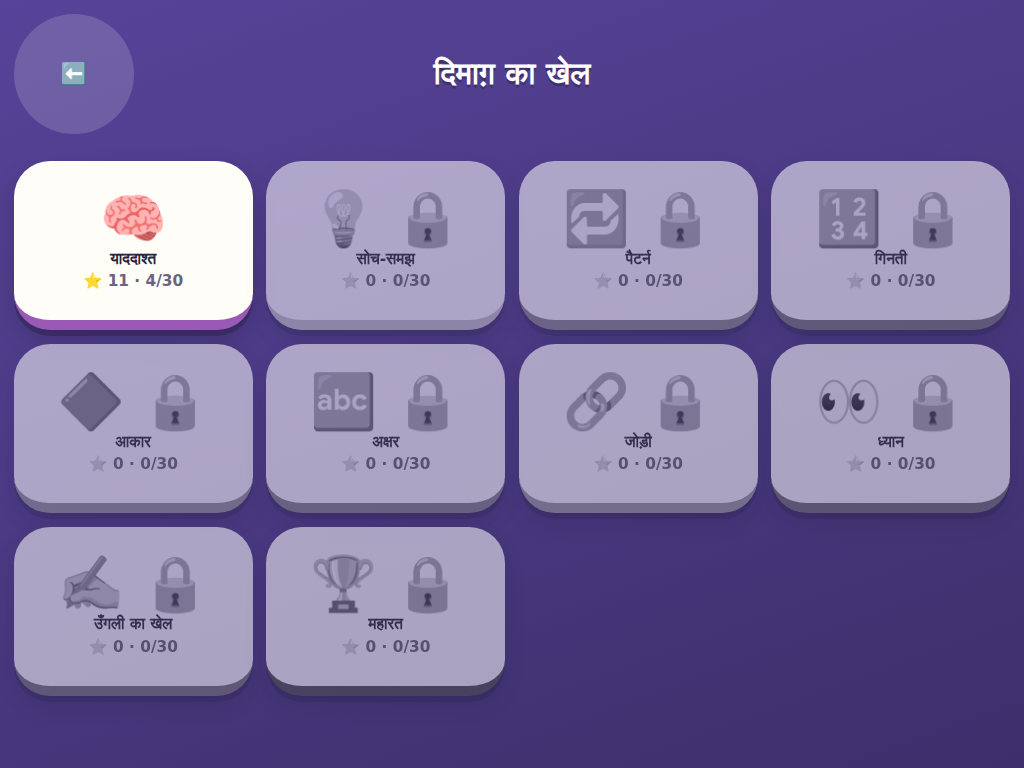
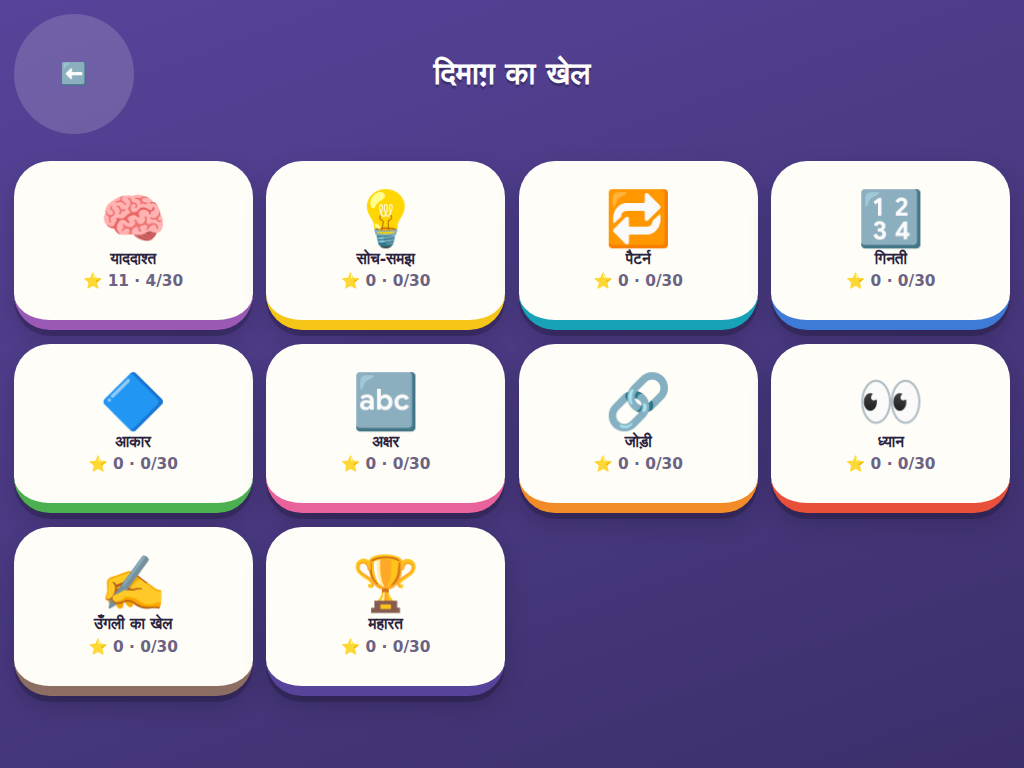
Open every category, and let deployed fixes actually arrive
Categories were gated: a world opened only once 60% of the
previous one was cleared, so a child who wanted the maze had to
clear eighteen memory levels first, and a parent opening the app
saw nine padlocks and one game. All ten are open from the start
now. Levels inside a category still unlock one at a time, because
those thirty climb from the easiest tier to the hardest, so a
child is always led up to the difficulty they meet.

The service worker was cache-first with a fixed cache name, which
meant no fix could ever reach a tablet that already had the game:
a browser only reinstalls a worker whose own bytes changed, and
editing a game file does not change sw.js. It is stale-while-
revalidate now — answered from cache instantly, refetched behind,
so the app still opens at once and still works with no network,
but a returning player picks up the new version.

tests/update.mjs proves it: install against one build, change what
the server returns without touching sw.js, and require a returning
visitor to land on the new one. Against the old worker the test
reports A, A, A — the update never arriving; against this one,
A, A, B, with offline intact.

Claude-Session: https://claude.ai/code/session_012WrVrUWsRAkZV34aQr8EfW

diff --git a/sw.js b/sw.js
@@ -1,10 +1,18 @@
 /* ============================================================
    sw.js — offline cache so the game works on a tablet with no
-   internet. Cache-first: this app is fully static and every
-   release bumps CACHE, so stale content is never a risk.
+   internet.
+
+   Stale-while-revalidate, not cache-first. Cache-first served the
+   cached copy and stopped there, so once a tablet had the game it
+   never saw another version: the browser only reinstalls a service
+   worker whose own bytes changed, and shipping a fix to a game file
+   does not change sw.js. Now every request is answered from the
+   cache immediately AND refetched in the background, so a fix
+   reaches a returning player on their next visit while the app
+   still opens instantly and still works with no network at all.
    ============================================================ */
 
-const CACHE = 'dimaag-ka-khel-v1';
+const CACHE = 'dimaag-ka-khel-v2';
 
 const SHELL = [
   './',
@@ -60,22 +68,35 @@ self.addEventListener('fetch', (e) => {
   const url = new URL(request.url);
   if (url.origin !== self.location.origin) return;
 
-  e.respondWith(
-    caches.match(request).then((hit) => {
-      if (hit) return hit;
-      return fetch(request).then((res) => {
-        // Cache each game engine the first time it is loaded, so a
-        // level played once is playable offline forever after.
-        if (res.ok && res.type === 'basic') {
-          const copy = res.clone();
-          caches.open(CACHE).then((c) => c.put(request, copy));
-        }
+  e.respondWith((async () => {
+    const cache = await caches.open(CACHE);
+    const cached = await cache.match(request);
+
+    const fresh = fetch(request)
+      .then((res) => {
+        // Cache each game engine the first time it is loaded, and
+        // refresh anything already cached, so the next visit is current.
+        if (res.ok && res.type === 'basic') cache.put(request, res.clone());
         return res;
-      }).catch(() =>
-        // Offline and uncached: for a navigation, fall back to the
-        // app shell so the SPA router can still boot.
-        request.mode === 'navigate' ? caches.match('./index.html') : Response.error()
-      );
-    })
-  );
+      })
+      .catch(() => null);
+
+    // Answer from the cache at once, but let the refetch finish so the
+    // stored copy is up to date for next time.
+    if (cached) {
+      e.waitUntil(fresh);
+      return cached;
+    }
+
+    const res = await fresh;
+    if (res) return res;
+
+    // Offline and never cached: for a navigation, fall back to the app
+    // shell so the router can still boot.
+    if (request.mode === 'navigate') {
+      const shell = await cache.match('./index.html');
+      if (shell) return shell;
+    }
+    return Response.error();
+  })());
 });

diff --git a/js/core/catalog.js b/js/core/catalog.js
@@ -6,7 +6,7 @@
    engines themselves load lazily when a level is actually opened.
    ============================================================ */
 
-import { WORLDS, ENGINES, LEVELS_PER_WORLD, TOTAL_LEVELS, UNLOCK_RATIO } from '../content/worlds.js';
+import { WORLDS, ENGINES, LEVELS_PER_WORLD, TOTAL_LEVELS } from '../content/worlds.js';
 import { Rng } from './rng.js';
 import { isDone, starsFor } from './state.js';
 
@@ -92,19 +92,23 @@ export function worldProgress(worldIndex) {
   return { done, total: list.length, stars, maxStars: list.length * 3 };
 }
 
-/** World 0 is always open; later worlds need the previous one 60% done. */
-export function isWorldUnlocked(worldIndex) {
-  if (worldIndex <= 0) return true;
-  const prev = worldProgress(worldIndex - 1);
-  return prev.done >= Math.ceil(prev.total * UNLOCK_RATIO);
+/**
+ * Every category is open from the start. Gating them behind progress in
+ * the previous one meant a child who loved the maze had to clear
+ * eighteen memory levels to reach it, and a parent opening the app saw
+ * nine padlocks and one game.
+ */
+export function isWorldUnlocked() {
+  return true;
 }
 
 /**
- * Levels unlock one at a time inside a world, so a child always has
- * exactly one obvious "next" button to press.
+ * Levels still unlock one at a time inside a category, because the
+ * thirty levels there climb from the easiest tier to the hardest — so
+ * a child always has exactly one obvious "next" button, at a
+ * difficulty they have been led up to.
  */
 export function isLevelUnlocked(level) {
-  if (!isWorldUnlocked(level.world)) return false;
   if (level.indexInWorld === 0) return true;
   const prev = levelsInWorld(level.world)[level.indexInWorld - 1];
   return isDone(prev.id);

diff --git a/js/main.js b/js/main.js
@@ -11,11 +11,11 @@
      #/settings    parent-gated settings
    ============================================================ */
 
-import { load as loadState, getSetting, recordStars, unlockWorld, resetProgress } from './core/state.js';
-import { unlock as unlockAudio, sfx } from './core/audio.js';
+import { load as loadState, getSetting, recordStars, resetProgress } from './core/state.js';
+import { unlock as unlockAudio } from './core/audio.js';
 import { t } from './core/i18n.js';
 import { el } from './core/ui.js';
-import { allLevels, getLevel, nextLevel, rngFor, isWorldUnlocked, worldProgress } from './core/catalog.js';
+import { allLevels, getLevel, nextLevel, rngFor, worldProgress } from './core/catalog.js';
 import { WORLDS, ENGINES } from './content/worlds.js';
 import { getPack, PAIR_SETS } from './content/packs.js';
 import { effectiveTier } from './core/engine.js';
@@ -101,13 +101,7 @@ async function playLevel(id) {
     onExit: () => go(`#/world/${level.world}`),
     onAgain: () => playLevel(id),
     onNext: () => (nxt ? playLevel(nxt.id) : go(`#/world/${level.world}`)),
-    onWin: (stars) => {
-      recordStars(level.id, stars);
-      // Opening the next world here (rather than on the map) means the
-      // unlock animation happens while the child is still celebrating.
-      const nw = level.world + 1;
-      if (nw < WORLDS.length && isWorldUnlocked(nw) && unlockWorld(nw)) sfx('unlock');
-    },
+    onWin: (stars) => recordStars(level.id, stars),
   });
 
   clearScreen();

diff --git a/js/screens/map.js b/js/screens/map.js
@@ -8,24 +8,23 @@
 import { el, topBar } from '../core/ui.js';
 import { t } from '../core/i18n.js';
 import { WORLDS } from '../content/worlds.js';
-import { worldProgress, isWorldUnlocked } from '../core/catalog.js';
-import { sfx, speak } from '../core/audio.js';
+import { worldProgress } from '../core/catalog.js';
+import { sfx } from '../core/audio.js';
 
 export function mapScreen({ go }) {
   const grid = el('div.map__grid');
 
+  // Every category is open, so none of these cards can be locked.
   WORLDS.forEach((world, i) => {
-    const unlocked = isWorldUnlocked(i);
     const { done, total, stars } = worldProgress(i);
     const name = t(world.nameKey);
 
-    const card = el(`div.world${unlocked ? '' : '.world--locked'}`, {
+    const card = el('div.world', {
       role: 'button',
-      tabindex: unlocked ? 0 : -1,
+      tabindex: 0,
       'aria-label': `${name} — ${done}/${total}`,
       style: { borderBottom: `10px solid ${world.color}` },
       onclick: () => {
-        if (!unlocked) { sfx('oops'); speak(t('app.locked')); return; }
         sfx('tap');
         go(`#/world/${i}`);
       },

diff --git a/js/core/state.js b/js/core/state.js
@@ -24,8 +24,6 @@ const DEFAULTS = {
    * to soften the next level, so a child never hits a wall.
    */
   struggle: {},
-  /** Highest world index unlocked (0-based). */
-  world: 0,
 };
 
 let data = { ...DEFAULTS };
@@ -117,20 +115,8 @@ export function noteStruggle(engineId, delta) {
   return next;
 }
 
-/* ---------------- world unlocking ---------------- */
-
-export function unlockWorld(idx) {
-  if (idx > data.world) {
-    data.world = idx;
-    save();
-    return true;
-  }
-  return false;
-}
-
 export function resetProgress() {
   data.stars = {};
   data.struggle = {};
-  data.world = 0;
   save();
 }

diff --git a/js/content/worlds.js b/js/content/worlds.js
@@ -65,10 +65,3 @@ export const WORLDS = [
 
 export const LEVELS_PER_WORLD = LEVELS_PER_ENGINE * 2;   // 30
 export const TOTAL_LEVELS = WORLDS.length * LEVELS_PER_WORLD;  // 300
-
-/**
- * A world unlocks when the previous one is 60% cleared. Not 100%:
- * a child who finds one game hard should never be walled off from
- * everything else.
- */
-export const UNLOCK_RATIO = 0.6;

diff --git a/README.md b/README.md
@@ -131,7 +131,7 @@ No framework, no bundler, no dependencies at runtime.
 | **Rendering** | DOM and CSS transforms; `<canvas>` only for tracing and the maze. |
 | **Input** | Pointer Events, so touch and mouse take one code path. |
 | **Storage** | `localStorage`. |
-| **Offline** | Service worker, installable as a PWA. |
+| **Offline** | Service worker, installable as a PWA. Stale-while-revalidate, so it opens instantly, works with no network, and still picks up a deployed fix. |
 
 The whole game is about 310 KB and loads instantly.
 
@@ -183,6 +183,7 @@ npm run test:small       # all 300 levels on a 7-inch tablet
 npm run test:audit       # are the puzzles well posed, and is help reachable?
 npm run test:audit:en    # the same, over the English content
 npm run test:offline     # still works with no network
+npm run test:update      # a deployed fix reaches a tablet that already has it
 
 node tests/smoke.mjs --engine memory        # one game
 node tests/smoke.mjs --limit 20             # a quick check
@@ -233,6 +234,14 @@ tapping, and the game is expected to rescue the child on a timer.
 
 `tests/offline.mjs` installs the service worker, cuts the network, and
 checks the title screen and a cached level still work.
+
+`tests/update.mjs` covers the opposite risk, and the one that is easy to
+miss: a browser only reinstalls a service worker whose own bytes changed,
+so under a cache-first strategy a tablet that had loaded the game once
+would serve that copy forever and never see another fix. The test installs
+against one build, changes what the server returns without touching
+`sw.js`, and fails unless a returning visitor lands on the new build —
+while still working with the network cut.
 
 `tools/check-emoji.mjs` renders every emoji in the content packs and fails
 on any missing glyph — the whole artwork budget is emoji, so a tofu box is
